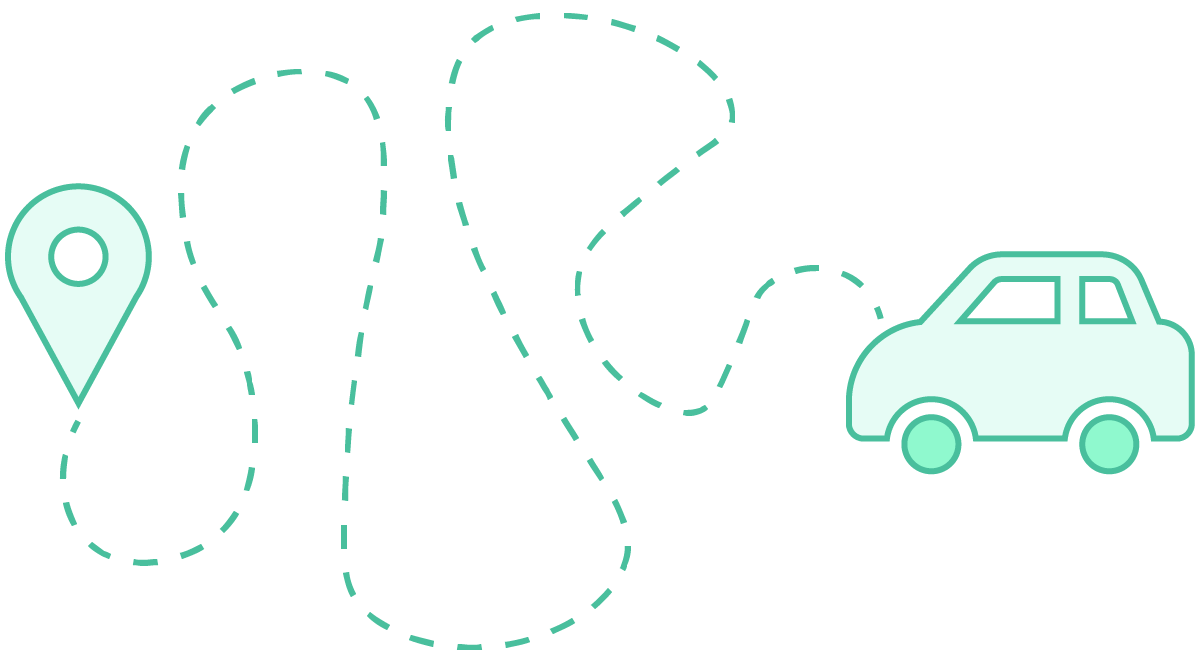
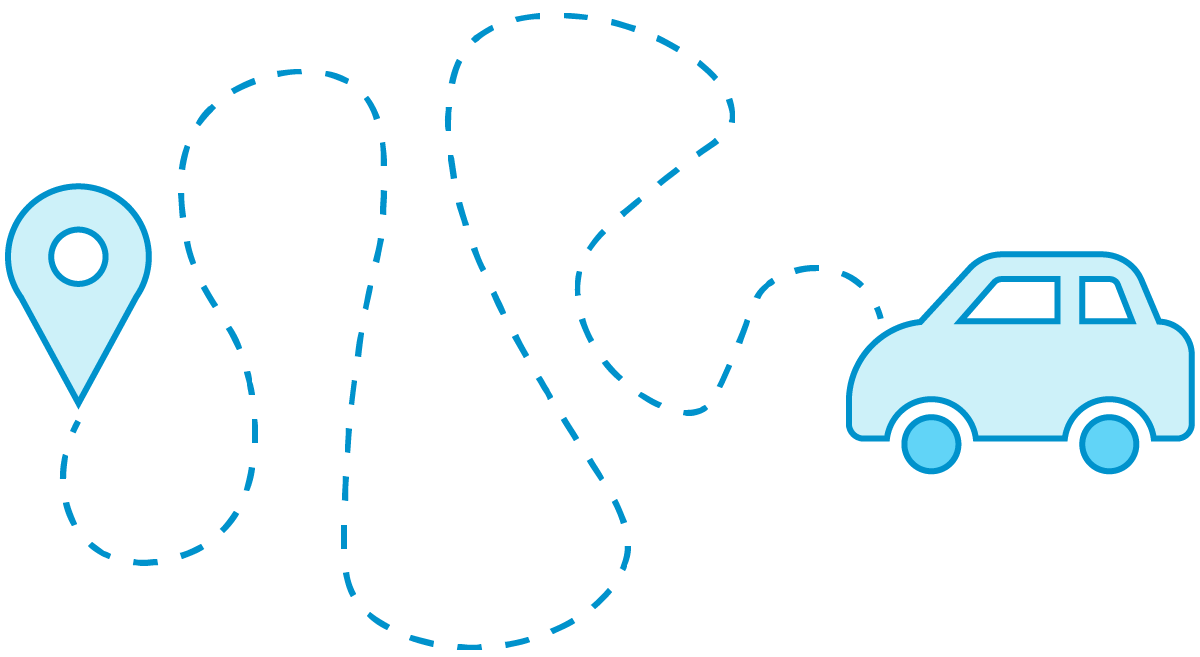
Changed about section, added resume

diff --git a/index.html b/index.html
@@ -21,7 +21,7 @@
 
 <!-- Header -->
 <header id="header">
-	<a href="#" class="image avatar"><img src="img/avatar.jpg" alt="" /></a>
+	<a href="#" class="image avatar"><img src="img/prof-pic.png" alt="" /></a>
 	<h1><strong>Thomas Phan</strong></h1>
 	<h1>User Experience Designer</h1>
 	<br>
@@ -72,30 +72,34 @@
 	<div class="row">
 		<article class="4u 12u$(xsmall) work-item">
 			<h2>Methods</h2>
-			<img class="skills-img" src="img/skills/method-1.png" alt="Scaffold">
-			<img class="skills-img" src="img/skills/method-2.png" alt="Scaffold">
-			<img class="skills-img" src="img/skills/method-3.png" alt="Scaffold">
-			<img class="skills-img" src="img/skills/method-4.png" alt="Scaffold">
-			<img class="skills-img" src="img/skills/method-5.png" alt="Scaffold">
-			<img class="skills-img" src="img/skills/method-6.png" alt="Scaffold">
+			<img class="skills-img" src="img/skills/method-1.png" alt="Sketching">
+			<img class="skills-img" src="img/skills/method-2.png" alt="Paper Prototyping">
+			<img class="skills-img" src="img/skills/method-3.png" alt="Wireframing">
+			<img class="skills-img" src="img/skills/method-4.png" alt="Creating Mockups">
+			<img class="skills-img" src="img/skills/method-5.png" alt="Usability Testing">
+			<img class="skills-img" src="img/skills/method-6.png" alt="User Interviews">
+			<img class="skills-img" src="img/skills/method-7.png" alt="Persona Creation">
+			<img class="skills-img" src="img/skills/method-8.png" alt="Storyboarding">
 		</article>
 		<article class="4u 12u$(xsmall) work-item">
 			<h2>UI / UX Tools</h2>
-			<img class="skills-img" src="img/skills/ux-1.png" alt="Scaffold">
-			<img class="skills-img" src="img/skills/ux-3.png" alt="Scaffold">
-			<img class="skills-img" src="img/skills/ux-6.png" alt="Scaffold">
-			<img class="skills-img" src="img/skills/ux-4.png" alt="Scaffold">
-			<img class="skills-img" src="img/skills/ux-5.png" alt="Scaffold">
-			<img class="skills-img" src="img/skills/ux-2.png" alt="Scaffold">
-			<img class="skills-img" src="img/skills/ux-7.png" alt="Scaffold">
+			<img class="skills-img" src="img/skills/ui-1.png" alt="Illustrator">
+			<img class="skills-img" src="img/skills/ux-1.png" alt="Axure">
+			<img class="skills-img" src="img/skills/ux-4.png" alt="LucidChart">
+			<img class="skills-img" src="img/skills/ux-3.png" alt="Sketch">
+			<img class="skills-img" src="img/skills/ux-2.png" alt="Invision">
+			<img class="skills-img" src="img/skills/ux-6.png" alt="POP">
+			<img class="skills-img" src="img/skills/ui-2.png" alt="Photoshop">
+			<img class="skills-img" src="img/skills/ux-5.png" alt="Balsamiq">
 		</article>
 		<article class="4u$ 12u$(xsmall) work-item">
 			<h2>Languages</h2>
-			<img class="skills-img" src="img/skills/lang-1.png" alt="Scaffold">
-			<img class="skills-img" src="img/skills/lang-2.png" alt="Scaffold">
-			<img class="skills-img" src="img/skills/lang-4.png" alt="Scaffold">
-			<img class="skills-img" src="img/skills/lang-5.png" alt="Scaffold">
-			<img class="skills-img" src="img/skills/lang-3.png" alt="Scaffold">
+			<img class="skills-img" src="img/skills/lang-1.png" alt="HTML">
+			<img class="skills-img" src="img/skills/lang-2.png" alt="CSS">
+			<img class="skills-img" src="img/skills/lang-4.png" alt="Java">
+			<img class="skills-img" src="img/skills/lang-5.png" alt="Python">
+			<img class="skills-img" src="img/skills/lang-3.png" alt="Javascript">
+			<img class="skills-img" src="img/skills/lang-6.png" alt="SQL">
 		</article>
 	</div>
 
@@ -554,6 +558,7 @@
 		<li><a href="https://www.linkedin.com/in/thomas-phan-43651364" class="icon fa-linkedin-square" target="_blank"><span class="label">Twitter</span></a></li>
 		<li><a href="https://github.com/tphan92" class="icon fa-github" target="_blank"><span class="label">Github</span></a></li>
 		<li><a href="mailto:tphan92@uw.edu" target="_top" class="icon fa-envelope-o"><span class="label">Email</span></a></li>
+		<li><a href="img/thomas-resume.png" target="_blank" class="icon fa-file-text-o"><span class="label">Resume</span></a></li>
 	</ul>
 	tphan92@uw.edu<br>
 	(206)354-7950

diff --git a/css/main.css b/css/main.css
@@ -1579,13 +1579,13 @@
 		-ms-transition: color 0.2s ease-in-out, border-color 0.2s ease-in-out;
 		transition: color 0.2s ease-in-out, border-color 0.2s ease-in-out;
 		border-bottom: dotted 1px;
-		color: #49bf9d;
+		color: #0092CC;
 		text-decoration: none;
 	}
 
 		a:hover {
 			border-bottom-color: transparent;
-			color: #49bf9d !important;
+			color: #0092CC !important;
 			text-decoration: none;
 		}
 
@@ -1875,7 +1875,7 @@
 		input[type="email"]:focus,
 		select:focus,
 		textarea:focus {
-			border-color: #49bf9d;
+			border-color: #0092CC;
 		}
 
 	.select-wrapper {
@@ -1985,7 +1985,7 @@
 
 		input[type="checkbox"]:focus + label:before,
 		input[type="radio"]:focus + label:before {
-			border-color: #49bf9d;
+			border-color: #0092CC;
 		}
 
 	input[type="checkbox"] + label:before {
@@ -2433,8 +2433,8 @@
 		input[type="reset"]:hover,
 		input[type="button"]:hover,
 		.button:hover {
-			border-color: #49bf9d;
-			color: #49bf9d !important;
+			border-color: #0092CC;
+			color: #0092CC !important;
 		}
 
 		input[type="submit"]:active,
@@ -2442,8 +2442,8 @@
 		input[type="button"]:active,
 		.button:active {
 			background-color: rgba(73, 191, 157, 0.1);
-			border-color: #49bf9d;
-			color: #49bf9d !important;
+			border-color: #0092CC;
+			color: #0092CC !important;
 		}
 
 		input[type="submit"].icon,
@@ -2488,8 +2488,8 @@
 		input[type="reset"].special,
 		input[type="button"].special,
 		.button.special {
-			background-color: #49bf9d;
-			border-color: #49bf9d;
+			background-color: #0092CC;
+			border-color: #0092CC;
 			color: #ffffff !important;
 		}
 
@@ -2579,7 +2579,7 @@
 
 		#header .image.avatar {
 			margin: 0 0 1em 0;
-			width: 6.25em;
+			width: 8em;
 		}
 
 /* Footer */
@@ -3195,7 +3195,7 @@
 }
 
 .fa {
-	color: #49bf9d;
+	color: #0092CC;
 	margin-left: 25%;
 	display: block;
 }
